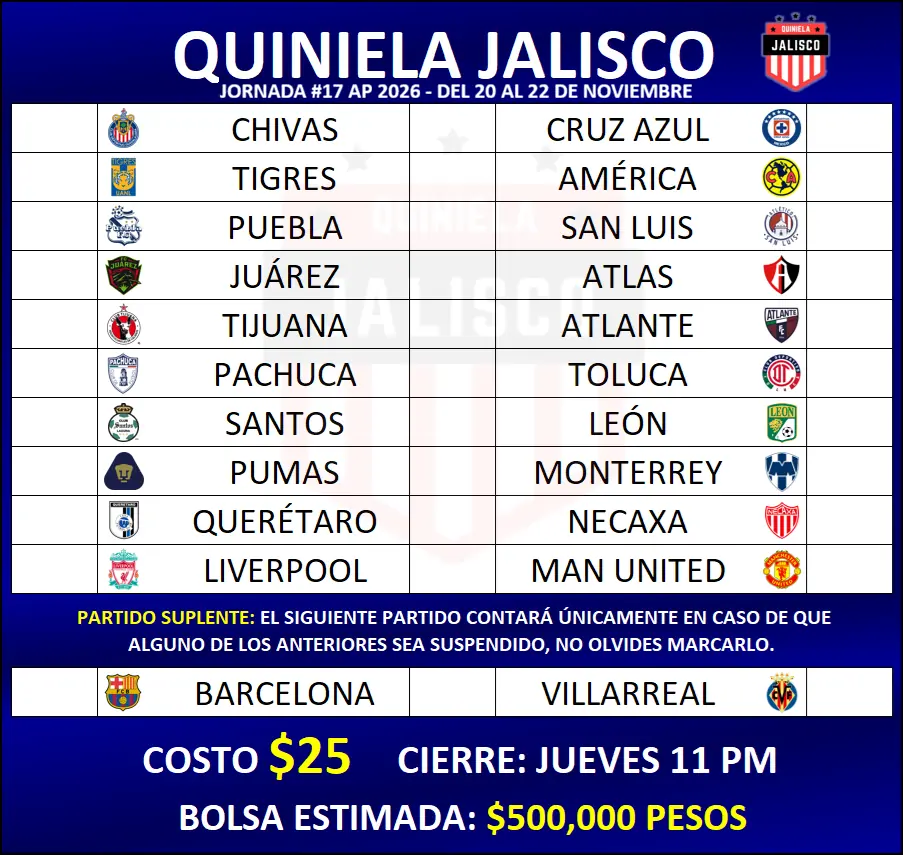
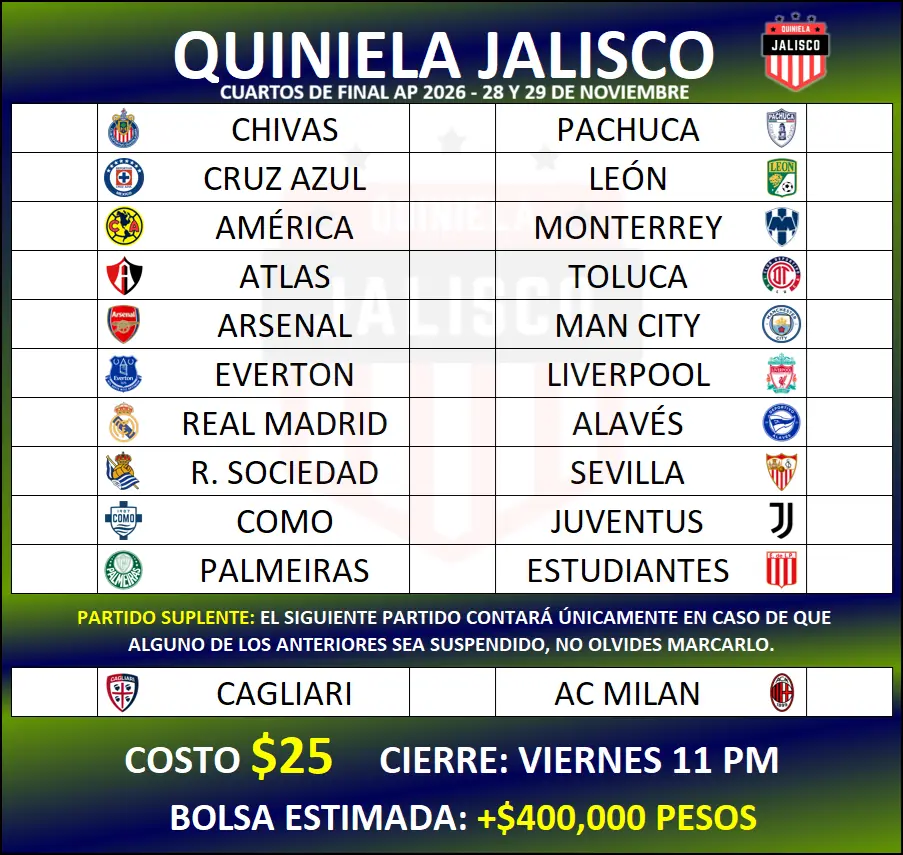
Cuartos de Final A26

diff --git a/var.js b/var.js
@@ -19,8 +19,8 @@
 var QJ_CONFIG = {
     "global": {
         "price":25,
-        "cierre":"JUEVES 11 PM",
-        "bolsa":"$500,000 pesos.",
+        "cierre":"VIERNES 11 PM",
+        "bolsa":"+$400,000 pesos.",
         "suspIndex":[],
         "sendBlockFrom":0,
         "sendBlockTo":0,
